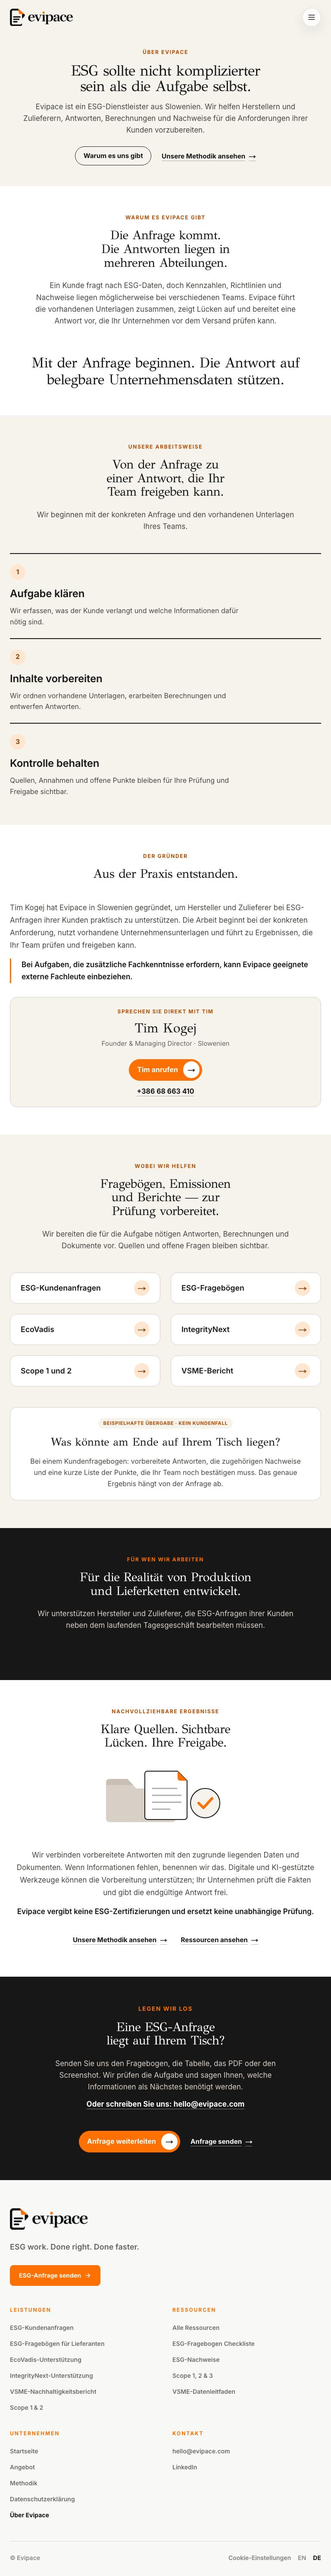
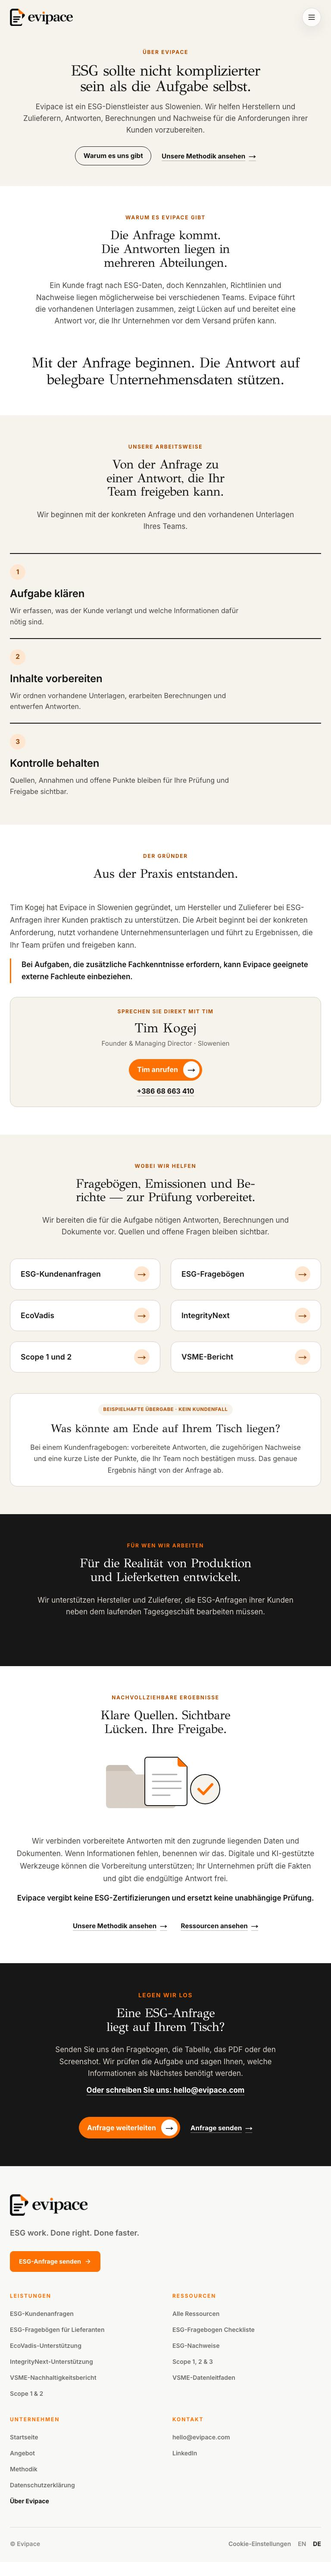
Wrap long German compounds inside cards and accordions on phones

diff --git a/components/evipace/methodology/Methodology.module.css b/components/evipace/methodology/Methodology.module.css
@@ -416,6 +416,7 @@ details[open] > summary .toggle::after {
 
 .disclosureText {
   display: grid;
+  min-width: 0;
   gap: var(--ev-s-2);
 }
 
@@ -481,6 +482,7 @@ details[open] > summary .toggle::after {
 
 .stepText {
   display: grid;
+  min-width: 0;
   flex: 1;
   gap: 0.2rem;
 }
@@ -520,6 +522,15 @@ details[open] > summary .toggle::after {
 .page :where(summary):focus-visible {
   outline: 3px solid var(--ev-charcoal);
   outline-offset: 2px;
+}
+
+/* Long German compounds must wrap inside cards and accordions on phones. */
+.page :where(h2, h3, summary, li, p) {
+  overflow-wrap: break-word;
+}
+
+.page[data-locale="de"] :where(h2, h3, summary) {
+  hyphens: auto;
 }
 
 /* Overview */

diff --git a/components/evipace/HomeLandingPage.module.css b/components/evipace/HomeLandingPage.module.css
@@ -50,6 +50,15 @@
   white-space: nowrap;
 }
 
+/* Long German compounds wrap instead of widening cards on narrow screens. */
+.page :where(h2, h3, h4, summary, li, p) {
+  overflow-wrap: break-word;
+}
+
+.page[data-locale="de"] :where(h2, h3, h4, summary) {
+  hyphens: auto;
+}
+
 .page :where(a, button, summary):focus-visible {
   outline: 3px solid var(--ev-charcoal);
   outline-offset: 2px;
